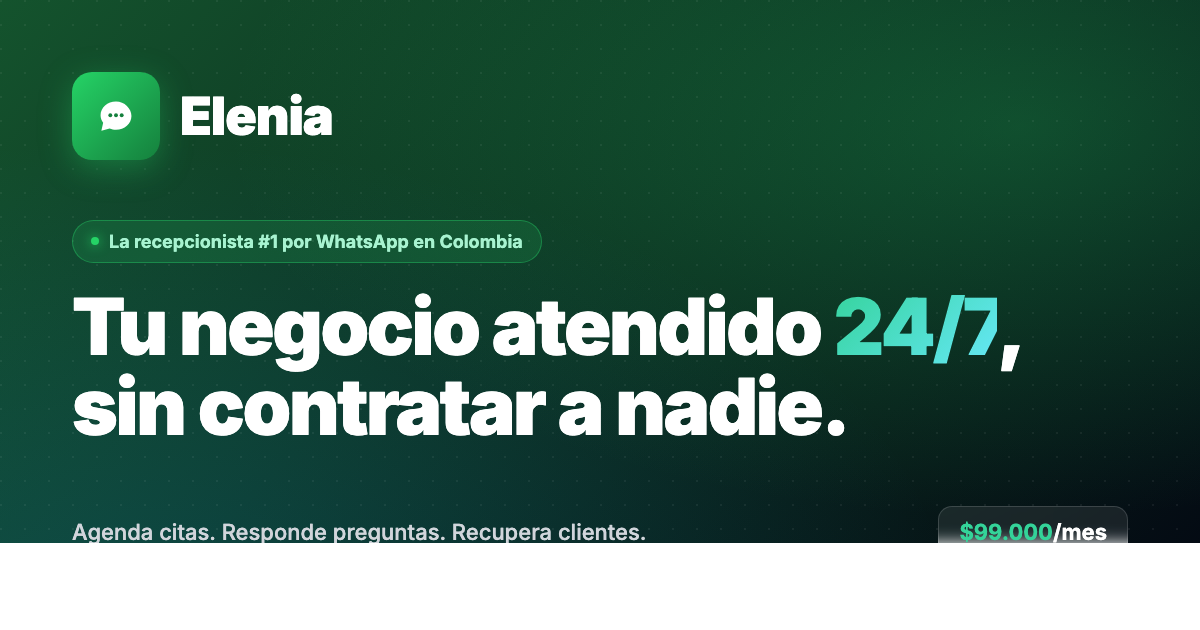
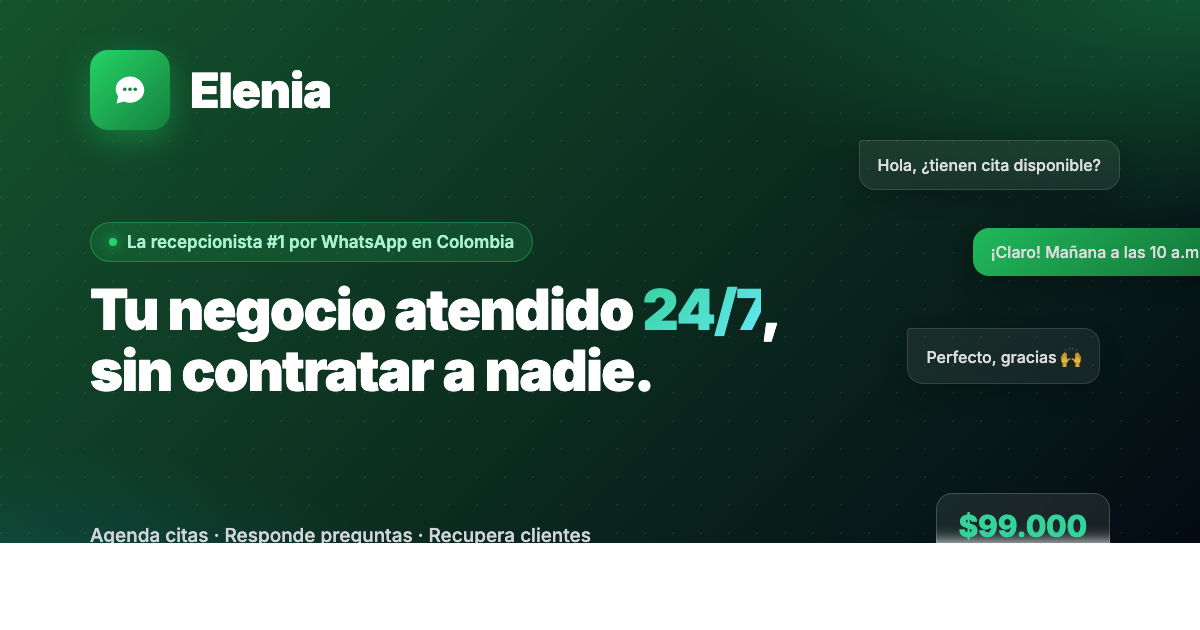
Redesign OG thumbnail: safe zone + better composition
Previous design pushed content to the edges, which got cropped by
some link-preview clients (WhatsApp, etc.). New design:

- Content locked inside a 1020x530 safe zone (90px L/R, 50px T/B)
- Decorative WhatsApp-style chat bubbles on the right to fill the
  visual space without blocking critical info
- Smaller, 2-line headline (56px) so the accent "24/7" never flirts
  with the right edge
- Single-line tagline with bullet separators
- Stacked price chip (amount + "COP / mes") for clearer hierarchy

diff --git a/.og-template.html b/.og-template.html
@@ -2,56 +2,66 @@
 <html lang="es-CO">
 <head>
 <meta charset="UTF-8">
-<link href="https://fonts.googleapis.com/css2?family=Inter:wght@500;700;800;900&display=swap" rel="stylesheet">
+<link href="https://fonts.googleapis.com/css2?family=Inter:wght@500;600;700;800;900&display=swap" rel="stylesheet">
 <style>
   * { margin: 0; padding: 0; box-sizing: border-box; }
-  html, body { width: 1200px; height: 630px; }
+  html, body {
+    width: 1200px; height: 630px;
+    overflow: hidden;
+  }
   body {
     font-family: 'Inter', -apple-system, system-ui, sans-serif;
     background:
-      radial-gradient(ellipse at 85% 20%, rgba(37,211,102,0.25) 0%, transparent 55%),
-      radial-gradient(ellipse at 10% 100%, rgba(14,165,233,0.18) 0%, transparent 55%),
+      radial-gradient(ellipse 70% 60% at 100% 0%, rgba(37,211,102,0.28) 0%, transparent 60%),
+      radial-gradient(ellipse 60% 50% at 0% 100%, rgba(14,165,233,0.18) 0%, transparent 60%),
       linear-gradient(135deg, #14532D 0%, #030712 100%);
     color: #fff;
-    padding: 72px;
-    display: flex;
-    flex-direction: column;
-    justify-content: space-between;
     position: relative;
     overflow: hidden;
   }
   .dots {
     position: absolute; inset: 0;
     background-image: radial-gradient(circle at 1px 1px, rgba(255,255,255,0.06) 1px, transparent 0);
-    background-size: 24px 24px;
+    background-size: 28px 28px;
     pointer-events: none;
   }
-  .row { display: flex; align-items: center; gap: 20px; position: relative; z-index: 1; }
+
+  /* Safe zone: all critical content inside center 1000x510 */
+  .safe {
+    position: absolute;
+    inset: 50px 90px;            /* 90px L/R, 50px T/B margins */
+    display: flex;
+    flex-direction: column;
+    justify-content: space-between;
+    z-index: 2;
+  }
+
+  /* Top: logo + brand */
+  .top { display: flex; align-items: center; gap: 20px; }
   .logo {
-    width: 88px; height: 88px; border-radius: 20px;
+    width: 80px; height: 80px; border-radius: 18px;
     background: linear-gradient(135deg, #25D366, #15803D);
     display: flex; align-items: center; justify-content: center;
-    box-shadow: 0 8px 32px rgba(37,211,102,0.35);
+    box-shadow: 0 10px 32px rgba(37,211,102,0.35);
   }
-  .logo svg { width: 52px; height: 52px; }
-  .brand { font-weight: 900; font-size: 52px; letter-spacing: -0.02em; }
+  .logo svg { width: 48px; height: 48px; }
+  .brand { font-weight: 900; font-size: 48px; letter-spacing: -0.02em; }
+
+  /* Middle: badge + headline */
+  .middle { max-width: 760px; }
   .badge {
     display: inline-flex; align-items: center; gap: 10px;
     background: rgba(37,211,102,0.15);
     border: 1px solid rgba(37,211,102,0.4);
     color: #A7F3D0;
-    padding: 10px 18px; border-radius: 999px;
-    font-size: 18px; font-weight: 600;
-    align-self: flex-start;
-    position: relative; z-index: 1;
-    margin-bottom: 24px;
+    padding: 9px 18px; border-radius: 999px;
+    font-size: 17px; font-weight: 600;
+    margin-bottom: 18px;
   }
   .badge .dot { width: 8px; height: 8px; border-radius: 50%; background: #25D366; box-shadow: 0 0 12px #25D366; }
   h1 {
-    font-size: 78px; font-weight: 900; line-height: 1.02;
-    letter-spacing: -0.03em;
-    position: relative; z-index: 1;
-    max-width: 1000px;
+    font-size: 56px; font-weight: 900; line-height: 1.08;
+    letter-spacing: -0.025em;
   }
   h1 .accent {
     background: linear-gradient(135deg, #34D399, #67E8F9);
@@ -59,27 +69,68 @@
     -webkit-text-fill-color: transparent;
     background-clip: text;
   }
-  .footer {
+
+  /* Bottom: tagline + price chip */
+  .bottom {
     display: flex; align-items: center; justify-content: space-between;
-    position: relative; z-index: 1;
+    gap: 24px;
   }
-  .tag { font-size: 22px; color: #D1D5DB; font-weight: 500; }
-  .tag strong { color: #fff; font-weight: 700; }
+  .tag { font-size: 19px; color: #D1D5DB; font-weight: 500; max-width: 620px; line-height: 1.4; }
   .price {
-    font-size: 22px; font-weight: 700; color: #fff;
+    display: flex; flex-direction: column; align-items: flex-end;
+    gap: 4px;
+    padding: 14px 22px; border-radius: 16px;
+    background: rgba(255,255,255,0.08);
+    border: 1px solid rgba(255,255,255,0.18);
+    backdrop-filter: blur(8px);
+    white-space: nowrap;
+  }
+  .price .amount { font-size: 30px; font-weight: 800; color: #34D399; letter-spacing: -0.01em; }
+  .price .per { font-size: 14px; color: #9CA3AF; font-weight: 600; letter-spacing: 0.04em; text-transform: uppercase; }
+
+  /* Decorative chat bubbles — purely visual, sit outside safe zone */
+  .deco {
+    position: absolute;
+    right: -40px; top: 140px;
+    width: 440px; height: 380px;
+    z-index: 1;
+    opacity: 0.85;
+  }
+  .bubble {
+    position: absolute;
+    padding: 14px 18px;
+    border-radius: 16px;
+    font-size: 16px; font-weight: 500;
+    box-shadow: 0 8px 24px rgba(0,0,0,0.25);
+    max-width: 280px;
+  }
+  .bubble.in {
     background: rgba(255,255,255,0.08);
     border: 1px solid rgba(255,255,255,0.15);
-    padding: 12px 20px; border-radius: 14px;
-    backdrop-filter: blur(8px);
+    color: #fff;
+    border-top-left-radius: 4px;
   }
-  .price span { color: #34D399; }
+  .bubble.out {
+    background: linear-gradient(135deg, #25D366, #15803D);
+    color: #fff;
+    border-top-right-radius: 4px;
+  }
+  .b1 { top: 0;   right: 120px; }
+  .b2 { top: 88px; right: 0;     }
+  .b3 { top: 188px; right: 140px; }
 </style>
 </head>
 <body>
   <div class="dots"></div>
 
-  <div>
-    <div class="row">
+  <div class="deco">
+    <div class="bubble in  b1">Hola, ¿tienen cita disponible?</div>
+    <div class="bubble out b2">¡Claro! Mañana a las 10 a.m. ✓</div>
+    <div class="bubble in  b3">Perfecto, gracias 🙌</div>
+  </div>
+
+  <div class="safe">
+    <div class="top">
       <div class="logo">
         <svg viewBox="0 0 64 64" xmlns="http://www.w3.org/2000/svg">
           <path fill="#fff" d="M32 14c-10.5 0-19 7.6-19 17 0 3.4 1.2 6.6 3.2 9.2L14 50l10.2-2.6c2.4 1 5 1.6 7.8 1.6 10.5 0 19-7.6 19-17S42.5 14 32 14z"/>
@@ -90,16 +141,19 @@
       </div>
       <div class="brand">Elenia</div>
     </div>
-  </div>
 
-  <div>
-    <div class="badge"><span class="dot"></span> La recepcionista #1 por WhatsApp en Colombia</div>
-    <h1>Tu negocio atendido <span class="accent">24/7</span>, sin contratar a nadie.</h1>
-  </div>
+    <div class="middle">
+      <div class="badge"><span class="dot"></span> La recepcionista #1 por WhatsApp en Colombia</div>
+      <h1>Tu negocio atendido <span class="accent">24/7</span>,<br>sin contratar a nadie.</h1>
+    </div>
 
-  <div class="footer">
-    <div class="tag">Agenda citas. Responde preguntas. Recupera clientes.</div>
-    <div class="price"><span>$99.000</span>/mes</div>
+    <div class="bottom">
+      <div class="tag">Agenda citas · Responde preguntas · Recupera clientes</div>
+      <div class="price">
+        <div class="amount">$99.000</div>
+        <div class="per">COP / mes</div>
+      </div>
+    </div>
   </div>
 </body>
 </html>
